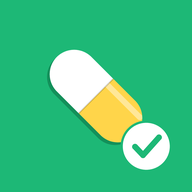
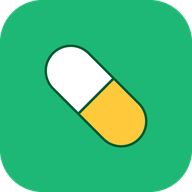
Add files via upload

diff --git a/public/app.js b/public/app.js
@@ -661,6 +661,7 @@ function renderAll(){
 
 /* ================= HOME ================= */
 function renderHome(){
+  document.getElementById('home-date').textContent=fmtDateFull(nowDate());
   document.getElementById('home-hello').textContent='안녕하세요,';
   document.getElementById('home-name').textContent=`${state.name} 어르신`;
 
@@ -698,17 +699,22 @@ function renderHome(){
       </div>`;
     const btn=document.getElementById('home-arc-add-med-btn');
     if(btn) btn.onclick=()=>{ switchTab('mypage'); openDetail('meds'); };
+    document.getElementById('home-arc-card').onclick=null; document.getElementById('home-arc-card').style.cursor='';
   } else {
     document.getElementById('home-arc-card').innerHTML=`
       <div class="arc-card-head">
-        <div>
+        <div style="flex:1;">
           <p class="arc-card-title">오늘의 복약 현황</p>
           <p class="arc-card-sub">${nextSlot? `다음 복약 시간: ${state.times[slotIndex(nextSlot)]}` : '오늘 복약을 모두 마쳤어요'}</p>
         </div>
       </div>
-      <div class="arc-wrap">${buildArcSVG(slots)}</div>
+      <div class="home-ring-wrap">${ringSVG({segments:slots.map(slotStatusToday), center:`${slots.length?Math.round(doneCount/slots.length*100):0}%`, sub:'오늘 복약'})}</div>
       ${slotChipRowHTML(slots)}
     `;
+    const arcCard=document.getElementById('home-arc-card');
+    arcCard.querySelector('.arc-card-head').insertAdjacentHTML('beforeend','<span style="color:var(--primary-deep); font-weight:800; font-size:0.95rem;">자세히 ›</span>');
+    arcCard.style.cursor='pointer';
+    arcCard.onclick=()=>openStatDetail('day');
   }
 
   const rate=computeAdherenceRate();
@@ -1608,6 +1614,156 @@ function maybeShowFirstRun(){
   document.getElementById('firstrun-skip').onclick=()=>{ sh.classList.remove('show'); markManualSeen(); };
 }
 
+/* ================= 링(원형 진행) · 기간 선택(일/주/월/연) · 복약 상세 ================= */
+/* 원형 링: segments(['taken','missed','pending'...])를 시간대별 호로 나눠 그리거나, progress(0~100)로 한 줄 진행률을 그린다 */
+function ringSVG(o){
+  const R=44, C=2*Math.PI*R, cx=60, cy=60;
+  const col=(st)=> st==='taken' ? '#1DB876' : st==='missed' ? '#FF6F5E' : '#E3E7EA';
+  let arcs='';
+  if(Array.isArray(o.segments) && o.segments.length){
+    const n=o.segments.length, gap=n>1?6:0, seg=C/n-gap;
+    o.segments.forEach((st,i)=>{
+      arcs+=`<circle cx="${cx}" cy="${cy}" r="${R}" fill="none" stroke="${col(st)}" stroke-width="13" stroke-linecap="round" stroke-dasharray="${Math.max(seg,1)} ${C-Math.max(seg,1)}" stroke-dashoffset="${-(C/n*i+gap/2)}" transform="rotate(-90 ${cx} ${cy})"/>`;
+    });
+  } else {
+    const p=Math.max(0,Math.min(100,o.progress||0));
+    arcs=`<circle cx="${cx}" cy="${cy}" r="${R}" fill="none" stroke="#E3E7EA" stroke-width="13"/>`+(p>0?`<circle cx="${cx}" cy="${cy}" r="${R}" fill="none" stroke="#1DB876" stroke-width="13" stroke-linecap="round" stroke-dasharray="${C*p/100} ${C}" transform="rotate(-90 ${cx} ${cy})"/>`:'');
+  }
+  return `<svg viewBox="0 0 120 120" xmlns="http://www.w3.org/2000/svg" style="width:100%; display:block;" role="img" aria-label="${o.sub||''} ${o.center||''}">${arcs}
+    <text x="60" y="${o.sub?62:68}" text-anchor="middle" font-size="22" font-weight="800" fill="#23272B">${o.center||''}</text>
+    ${o.sub?`<text x="60" y="80" text-anchor="middle" font-size="9.5" fill="#8A9099">${o.sub}</text>`:''}</svg>`;
+}
+/* 재사용 가능한 기간 선택 탭 (일간/주간/월간/연간) */
+const PERIODS=[['day','일간'],['week','주간'],['month','월간'],['year','연간']];
+function periodTabsHTML(active){
+  return `<div class="period-tabs" role="tablist">`+PERIODS.map(([k,l])=>`<button type="button" role="tab" aria-selected="${k===active}" class="${k===active?'active':''}" data-period="${k}">${l}</button>`).join('')+`</div>`;
+}
+function bindPeriodTabs(root, onChange){
+  root.querySelectorAll('.period-tabs [data-period]').forEach(b=>b.addEventListener('click',()=>onChange(b.getAttribute('data-period'))));
+}
+let statPeriod='day';
+let statAnchor=nowDate();
+function openStatDetail(period){ statPeriod=period||'day'; statAnchor=nowDate(); openDetail('medstatus'); }
+function renderStatDetail(){
+  document.getElementById('detail-body').innerHTML=statDetailHTML();
+  bindStatEvents();
+}
+function weekStartOf(d){ const x=new Date(d.getFullYear(),d.getMonth(),d.getDate()); x.setDate(x.getDate()-mondayIndex(x)); return x; }
+function statRange(){
+  const a=statAnchor, y=a.getFullYear(), m=a.getMonth();
+  if(statPeriod==='day') return {start:new Date(y,m,a.getDate()), end:new Date(y,m,a.getDate()), label:fmtDateFull(a)};
+  if(statPeriod==='week'){ const s=weekStartOf(a); const e=new Date(s); e.setDate(s.getDate()+6);
+    return {start:s,end:e,label:`${s.getMonth()+1}월 ${s.getDate()}일 ~ ${e.getMonth()+1}월 ${e.getDate()}일`}; }
+  if(statPeriod==='month') return {start:new Date(y,m,1), end:new Date(y,m+1,0), label:`${y}년 ${m+1}월`};
+  return {start:new Date(y,0,1), end:new Date(y,11,31), label:`${y}년`};
+}
+function statShift(dir){
+  const a=statAnchor;
+  if(statPeriod==='day') statAnchor=new Date(a.getFullYear(),a.getMonth(),a.getDate()+dir);
+  else if(statPeriod==='week') statAnchor=new Date(a.getFullYear(),a.getMonth(),a.getDate()+7*dir);
+  else if(statPeriod==='month') statAnchor=new Date(a.getFullYear(),a.getMonth()+dir,1);
+  else statAnchor=new Date(a.getFullYear()+dir,0,1);
+}
+/* 기간 안의 실제 기록만 집계 (기록이 없는 날은 "기록 없음"으로 두고 숫자를 만들어내지 않는다) */
+function aggRange(start,end){
+  const r={taken:0,missed:0,pending:0,daysFull:0,daysPartial:0,daysMissed:0,daysNoRec:0,perSlot:{}};
+  const d=new Date(start); let guard=0;
+  while(d<=end && guard++<400){
+    const st=daySlotStatuses(d); const vals=Object.entries(st);
+    if(!vals.length){ r.daysNoRec++; }
+    else {
+      vals.forEach(([k,v])=>{
+        if(!r.perSlot[k]) r.perSlot[k]={taken:0,missed:0};
+        if(v==='taken'){ r.taken++; r.perSlot[k].taken++; }
+        else if(v==='missed'){ r.missed++; r.perSlot[k].missed++; }
+        else r.pending++;
+      });
+      const sum=daySummaryStatus(d);
+      if(sum==='full') r.daysFull++; else if(sum==='partial') r.daysPartial++; else if(sum==='missed') r.daysMissed++;
+    }
+    d.setDate(d.getDate()+1);
+  }
+  r.rate = (r.taken+r.missed)>0 ? Math.round(r.taken/(r.taken+r.missed)*100) : null;
+  return r;
+}
+function slotRatesHTML(agg){
+  const keys=Object.keys(agg.perSlot).filter(k=>state.slots.some(s=>s.key===k));
+  if(!keys.length) return '';
+  return `<div class="card pad-md"><p class="arc-card-title" style="margin-bottom:4px;">시간대별 이행률</p>`+keys.map(k=>{
+    const v=agg.perSlot[k], t=v.taken+v.missed, p=t?Math.round(v.taken/t*100):0, s=state.slots.find(x=>x.key===k);
+    return `<div class="stat-row" style="cursor:default;"><span class="d">${s.icon} ${escapeHtml(s.label)}</span><span class="bar"><i style="width:${p}%"></i></span><span class="v">${t?p+'%':'-'}</span></div>`;
+  }).join('')+`</div>`;
+}
+function statDetailHTML(){
+  const rg=statRange();
+  const agg=aggRange(rg.start,rg.end);
+  const todayK=dateKey(nowDate());
+  const isCur = dateKey(rg.start)<=todayK && todayK<=dateKey(rg.end);
+  let hero='', body='';
+  if(statPeriod==='day'){
+    const st=daySlotStatuses(rg.start), k=dateKey(rg.start);
+    const slots=state.slots.filter(s=>st[s.key]!==undefined);
+    const done=slots.filter(s=>st[s.key]==='taken').length;
+    hero = slots.length ? `<div class="ring-wrap">${ringSVG({segments:slots.map(s=>st[s.key]), center:`${Math.round(done/slots.length*100)}%`, sub:'하루 복약'})}</div>
+      <p class="big">${slots.length}번 중 ${done}번 완료</p><p class="small">${agg.missed?`놓친 약 ${agg.missed}번`:'놓친 약이 없어요'}</p>`
+      : `<p class="big">기록이 없어요</p><p class="small">이 날은 저장된 복약 기록이 없어요.</p>`;
+    const rows=slots.map(s=>{
+      const v=st[s.key]; const cls=v==='taken'?'done':v==='missed'?'warn':'pending'; const lb=v==='taken'?'완료':v==='missed'?'미복약':'복약 전';
+      const meds=slotMeds(s.key);
+      const medHtml=meds.length>1||meds.some(m=>medDoneOnDate(k,s.key,m.id)) ? `<div style="width:100%; padding:2px 0 4px 54px; font-size:0.93rem;">`+meds.map(m=>{const dn=medDoneOnDate(k,s.key,m.id); return `<div style="display:flex; justify-content:space-between; padding:3px 0;"><span>💊 ${escapeHtml(m.name)}</span><b style="color:${dn?'var(--primary-deep)':'var(--text-sub)'};">${dn?'✓ 복용':'미복용'}</b></div>`;}).join('')+`</div>` : '';
+      const mr=getMissReason(k,s.key);
+      return `<div class="med-check-row" style="flex-wrap:wrap;"><div class="med-check-icon">${s.icon}</div><div class="med-check-main"><b>${escapeHtml(s.label)}</b><span>${state.times[slotIndex(s)]}</span></div><span class="status-badge ${cls}">${lb}</span>${medHtml}${mr&&v!=='taken'?`<div style="width:100%; font-size:0.93rem; padding:2px 0 4px 54px;">📝 ${missReasonText(mr)}</div>`:''}</div>`;
+    }).join('');
+    const ses=state.sideEffects.filter(x=>x.date===k);
+    body=`<div class="card pad-md"><p class="arc-card-title" style="margin-bottom:4px;">시간대별 복약</p>${rows||'<div class="hint-text" style="margin:0;">표시할 기록이 없어요.</div>'}</div>`
+      +(ses.length?`<div class="card pad-md"><p class="arc-card-title" style="margin-bottom:4px;">😣 불편했던 점</p>${ses.map(x=>`<div class="stat-row" style="cursor:default;"><span style="flex:1;">${x.symptom==='기타'&&x.other?'기타 · '+escapeHtml(x.other):escapeHtml(x.symptom)}</span><span class="v">${escapeHtml(slotLabelByKey(x.slot))}</span></div>`).join('')}</div>`:'');
+  } else {
+    hero = agg.rate===null ? `<p class="big">기록이 없어요</p><p class="small">이 기간에는 저장된 복약 기록이 없어요.</p>`
+      : `<div class="ring-wrap">${ringSVG({progress:agg.rate, center:`${agg.rate}%`, sub:'복약 이행률'})}</div>
+         <p class="big">${agg.taken+agg.missed}번 중 ${agg.taken}번 완료</p><p class="small">놓친 약 ${agg.missed}번${agg.pending?` · 아직 안 한 약 ${agg.pending}번`:''}</p>`;
+    if(statPeriod==='week'){
+      const rows=[]; const d=new Date(rg.start);
+      for(let i=0;i<7;i++){
+        const st=daySlotStatuses(d); const ent=Object.entries(st); const done=ent.filter(e=>e[1]==='taken').length;
+        const dots=ent.length?`<span class="sdots">${ent.map(e=>`<i class="${e[1]==='taken'?'t':e[1]==='missed'?'m':''}"></i>`).join('')}</span>`:`<span class="sdots" style="color:var(--text-faint); font-size:0.9rem;">기록 없음</span>`;
+        rows.push(`<div class="stat-row" data-goto-day="${dateKey(d)}"><span class="d">${d.getMonth()+1}/${d.getDate()} (${DOW[d.getDay()]})</span>${dots}<span class="v">${ent.length?`${done}/${ent.length}`:''}</span></div>`);
+        d.setDate(d.getDate()+1);
+      }
+      body=`<div class="card pad-md"><p class="arc-card-title" style="margin-bottom:4px;">요일별 복약 · 눌러서 자세히</p>${rows.join('')}</div>`+slotRatesHTML(agg);
+    } else if(statPeriod==='month'){
+      const y=rg.start.getFullYear(), m=rg.start.getMonth(); let cells='';
+      for(let i=0;i<rg.start.getDay();i++) cells+=`<div class="cal-cell empty"></div>`;
+      for(let dd=1; dd<=rg.end.getDate(); dd++){
+        const dt=new Date(y,m,dd), kk=dateKey(dt), cnt=Object.keys(daySlotStatuses(dt)).length;
+        cells+=`<div class="cal-cell ${daySummaryStatus(dt)} ${kk===todayK?'today':''}" data-goto-day="${kk}"><span class="num">${dd}</span>${cnt?`<div class="dots">${'<i></i>'.repeat(Math.min(cnt,4))}</div>`:''}</div>`;
+      }
+      body=`<div class="card pad-md"><p class="arc-card-title" style="margin-bottom:6px;">날짜를 누르면 그날 기록이 보여요</p><div class="cal-dow-row"><span>일</span><span>월</span><span>화</span><span>수</span><span>목</span><span>금</span><span>토</span></div><div class="cal-grid">${cells}</div>${legendHTML()}</div>`
+        +`<div class="card pad-md"><p class="arc-card-title" style="margin-bottom:4px;">한 달 요약</p><div class="stat-row" style="cursor:default;"><span class="d">모두 완료한 날</span><span class="v" style="flex:1;">${agg.daysFull}일</span></div><div class="stat-row" style="cursor:default;"><span class="d">일부만 완료</span><span class="v" style="flex:1;">${agg.daysPartial}일</span></div><div class="stat-row" style="cursor:default;"><span class="d">놓친 날</span><span class="v" style="flex:1;">${agg.daysMissed}일</span></div></div>`+slotRatesHTML(agg);
+    } else {
+      const y=rg.start.getFullYear(); const rows=[];
+      for(let mo=0;mo<12;mo++){
+        const a=aggRange(new Date(y,mo,1), new Date(y,mo+1,0)); const t=a.taken+a.missed;
+        rows.push(`<div class="stat-row" data-goto-month="${mo}"><span class="d">${mo+1}월</span><span class="bar"><i style="width:${a.rate||0}%"></i></span><span class="v">${a.rate===null?'기록 없음':a.rate+'%'}</span></div>`);
+      }
+      body=`<div class="card pad-md"><p class="arc-card-title" style="margin-bottom:4px;">월별 이행률 · 눌러서 자세히</p>${rows.join('')}</div>`+slotRatesHTML(agg);
+    }
+  }
+  return `<div class="stat-range"><button type="button" id="stat-prev" aria-label="이전">‹</button><span class="lbl">${rg.label}</span><button type="button" id="stat-next" aria-label="다음">›</button></div>
+    ${isCur?'':`<div style="text-align:center; margin:-2px 0 4px;"><button type="button" class="month-nav-today" id="stat-today">오늘로 돌아가기</button></div>`}
+    ${periodTabsHTML(statPeriod)}
+    <div class="card pad-md stat-hero">${hero}</div>
+    ${body}`;
+}
+function bindStatEvents(){
+  const root=document.getElementById('detail-body');
+  bindPeriodTabs(root, p=>{ statPeriod=p; renderStatDetail(); });
+  document.getElementById('stat-prev').onclick=()=>{ statShift(-1); renderStatDetail(); };
+  document.getElementById('stat-next').onclick=()=>{ statShift(1); renderStatDetail(); };
+  const td=document.getElementById('stat-today'); if(td) td.onclick=()=>{ statAnchor=nowDate(); renderStatDetail(); };
+  root.querySelectorAll('[data-goto-day]').forEach(el=>el.addEventListener('click',()=>{ statAnchor=parseDateKey(el.getAttribute('data-goto-day')); statPeriod='day'; renderStatDetail(); }));
+  root.querySelectorAll('[data-goto-month]').forEach(el=>el.addEventListener('click',()=>{ statAnchor=new Date(statAnchor.getFullYear(),Number(el.getAttribute('data-goto-month')),1); statPeriod='month'; renderStatDetail(); }));
+}
+
 /* ================= 설정 ================= */
 function renderMypage(){
   document.getElementById('profile-card-btn').innerHTML=`
@@ -1650,10 +1806,11 @@ function openDetail(type){
   currentDetail=type;
   if(!wasMeds && type!=='manage') editingMedId=null;
   const titles={
-    manage:'복약 관리', missreason:'놓친 이유 기록', caregiver:'보호자 연동',
+    manage:'복약 관리', missreason:'놓친 이유 기록', medstatus:'복약 현황', caregiver:'보호자 연동',
     fontsize:'글자 크기 설정', manual:'앱 사용 방법', sideeffect:'불편한 점 기록', profile:'개인정보 보기', notifications:'알림',
   };
   document.getElementById('detail-title').textContent=titles[type]||'';
+  document.getElementById('detail-overlay').classList.toggle('keep-nav', type==='medstatus');
   document.getElementById('detail-body').innerHTML = detailBodyHTML(type);
   bindDetailEvents(type);
   ov.classList.add('show');
@@ -1667,6 +1824,7 @@ function switchHTML(id, checked){
   return `<label class="switch"><input type="checkbox" id="${id}" ${checked?'checked':''}><span class="track"></span><span class="thumb"></span></label>`;
 }
 function detailBodyHTML(type){
+  if(type==='medstatus') return statDetailHTML();
   if(type==='missreason') return missReasonDetailHTML();
   if(type==='manage'){
     return `<p class="arc-card-title" style="margin:6px 2px 8px;">💊 복약 정보 관리</p>`+detailBodyHTML('meds')
@@ -1815,6 +1973,7 @@ function medListHTML(){
   }).join('');
 }
 function bindDetailEvents(type){
+  if(type==='medstatus'){ bindStatEvents(); return; }
   if(type==='missreason'){ bindMissReasonEvents(); return; }
   if(type==='manage'){ bindDetailEvents('meds'); bindDetailEvents('alert'); return; }
   if(type==='sideeffect') bindSideEffectEvents();
@@ -1944,6 +2103,7 @@ function bindDetailEvents(type){
 
 /* ================= NAVIGATION ================= */
 function switchTab(tab){
+  if(currentDetail==='medstatus') closeDetail();
   currentTab=tab;
   document.querySelectorAll('.tab-view').forEach(v=>v.classList.remove('active'));
   document.getElementById('tab-'+tab).classList.add('active');

diff --git a/public/index.html b/public/index.html
@@ -628,6 +628,29 @@ button, input{font-family:inherit;}
 .plant-done{background:var(--primary-tint); color:var(--primary-deep); border-radius:12px; padding:10px; font-weight:800; font-size:1.05rem; margin-top:8px;}
 .reason-opt{display:block; width:100%; text-align:left; min-height:56px; padding:12px 16px; margin:8px 0; border-radius:14px; border:1.5px solid var(--line); background:#fff; font-size:1.05rem; font-weight:700; cursor:pointer; color:var(--text);}
 .reason-opt.on{border-color:var(--primary); background:var(--primary-tint); color:var(--primary-deep);}
+
+/* ---------- v9: 홈 → 복약 상세, 일간·주간·월간·연간 전환 ---------- */
+.detail-overlay.keep-nav{bottom:calc(68px + env(safe-area-inset-bottom));}
+.period-tabs{display:flex; gap:2px; background:#E6E9ED; border-radius:12px; padding:3px; margin:6px 0 12px;}
+.period-tabs button{flex:1; min-height:44px; border:none; background:transparent; border-radius:10px; font-size:1rem; font-weight:700; color:var(--text-sub); cursor:pointer;}
+.period-tabs button.active{background:#fff; color:var(--text); font-weight:800; box-shadow:var(--shadow);}
+.stat-range{display:flex; align-items:center; gap:8px; margin:2px 0 4px;}
+.stat-range .lbl{flex:1; text-align:center; font-size:1.05rem; font-weight:800;}
+.stat-range button{min-width:44px; min-height:44px; border:1.5px solid var(--line); background:#fff; border-radius:12px; font-size:1.2rem; cursor:pointer;}
+.stat-hero{text-align:center;}
+.stat-hero .ring-wrap{width:100%; max-width:200px; margin:0 auto;}
+.stat-hero .big{font-size:1.5rem; font-weight:800; margin:6px 0 2px;}
+.stat-hero .small{font-size:1rem; color:var(--text-sub); margin:0;}
+.stat-row{display:flex; align-items:center; gap:10px; padding:13px 0; border-bottom:1px solid var(--line); cursor:pointer;}
+.stat-row:last-child{border-bottom:none;}
+.stat-row .d{min-width:84px; font-size:1rem; font-weight:700;}
+.stat-row .bar{flex:1; height:10px; border-radius:6px; background:#E6E9ED; overflow:hidden;}
+.stat-row .bar i{display:block; height:100%; background:var(--primary);}
+.stat-row .v{min-width:70px; text-align:right; font-size:0.95rem; font-weight:700; color:var(--text-sub);}
+.sdots{display:flex; gap:5px; flex:1;}
+.sdots i{width:14px; height:14px; border-radius:50%; background:#DDE2E6; display:inline-block;}
+.sdots i.t{background:var(--primary);} .sdots i.m{background:var(--coral);}
+.home-ring-wrap{width:100%; max-width:190px; margin:6px auto 0;}
 </style>
 </head>
 <body>
@@ -641,6 +664,7 @@ button, input{font-family:inherit;}
       <button class="icon-btn" id="bell-btn" aria-label="알림">🔔<span class="badge-dot" id="bell-dot"></span></button>
     </div>
     <div class="greeting-block">
+      <p class="sub-line" id="home-date" style="font-weight:700; color:var(--primary-deep); margin-bottom:2px;"></p>
       <p class="hello" id="home-hello"></p>
       <p class="name-line" id="home-name"></p>
       <p class="sub-line">오늘도 건강한 하루 보내세요!</p>

diff --git a/public/sw.js b/public/sw.js
@@ -1,4 +1,4 @@
-const CACHE_NAME = 'onul-haenaesseoyo-v16';
+const CACHE_NAME = 'onul-haenaesseoyo-v17';
 const APP_SHELL = [
   './index.html',
   './manifest.json',
